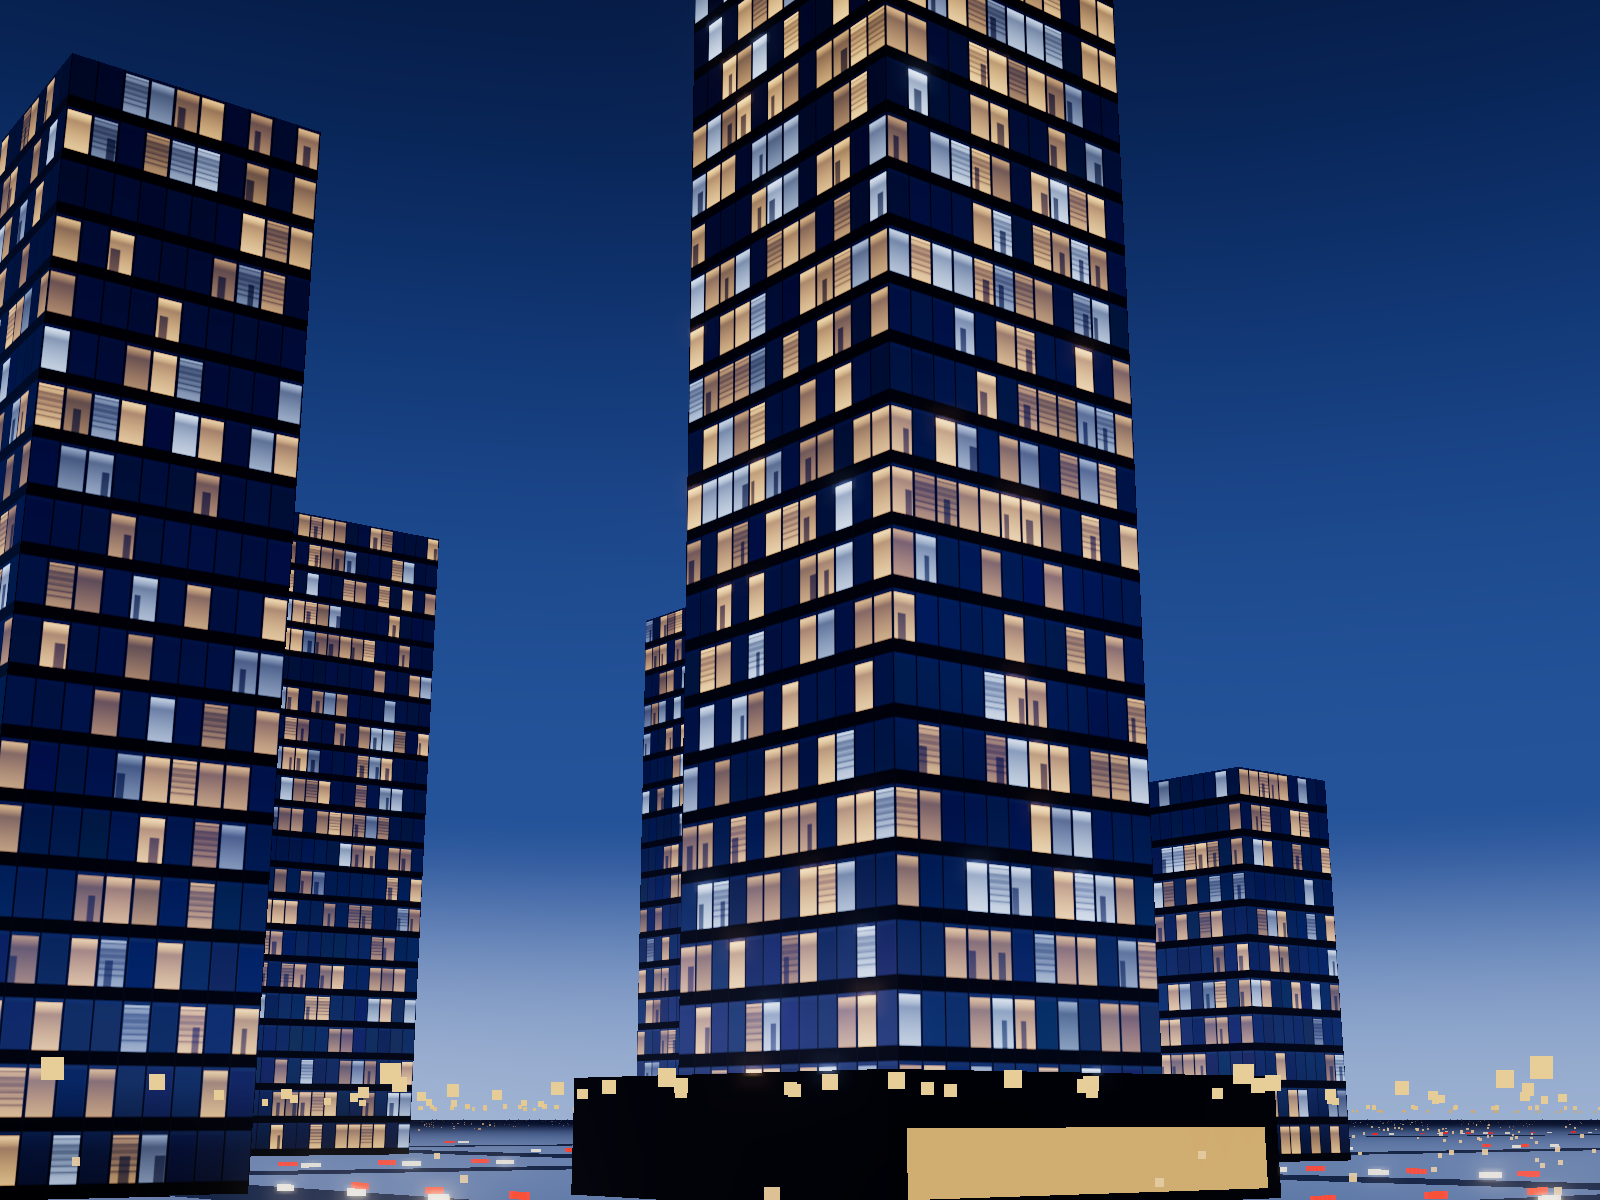
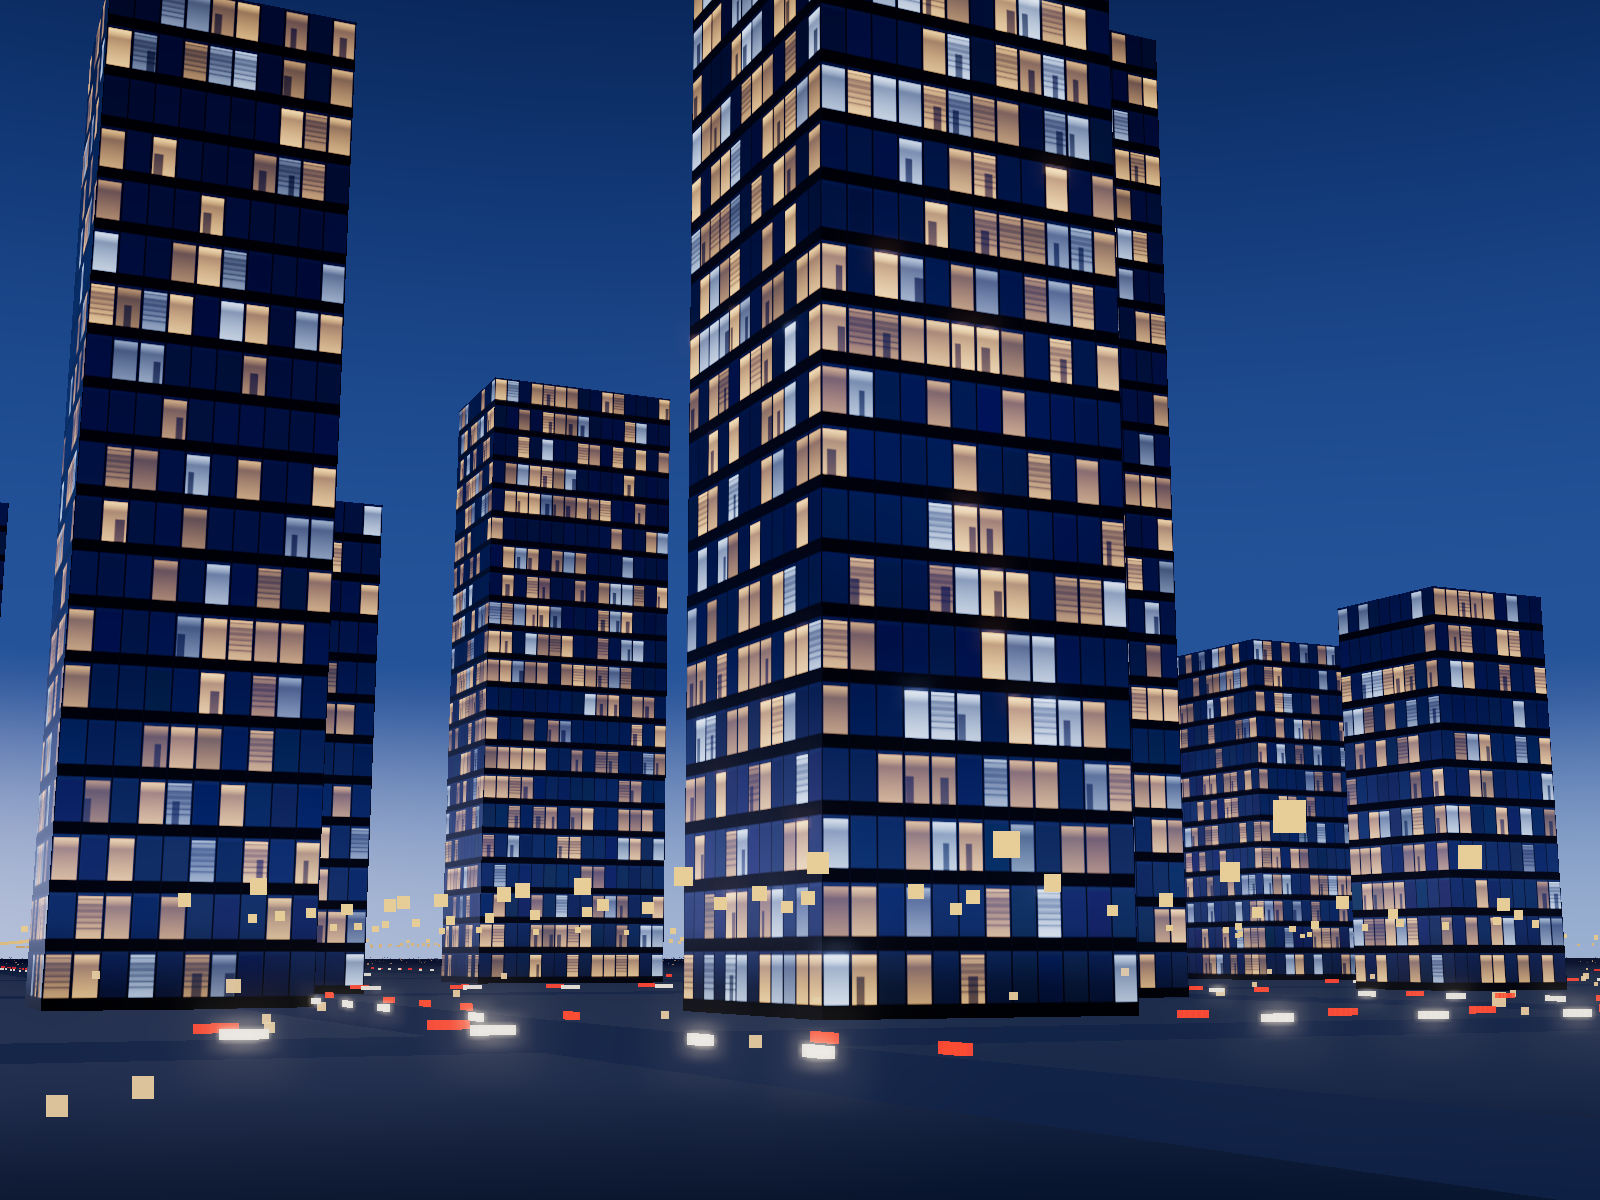
Fix review findings: new plates, arc continuity, gallery alignment, mobile fold
Claude-Session: https://claude.ai/code/session_01WaokyJyyRSGq2xAuYwpAB9

diff --git a/src/styles/global.css b/src/styles/global.css
@@ -73,7 +73,7 @@ strong { color: var(--silver-hi); font-weight: 600; }
 
 /* Hero */
 .hero { position: relative; min-height: max(100svh, 720px); display: grid; align-items: end; padding-block: 140px 40px; background: linear-gradient(180deg, var(--sky) 0%, var(--night) 55%, var(--ground) 100%); isolation: isolate; overflow: hidden; }
-.hero-tower { position: absolute; inset: 0 0 0 auto; width: min(62%, 980px); z-index: -1; mask-image: linear-gradient(90deg, transparent 0%, #000 35%), linear-gradient(0deg, transparent 0%, #000 30%, #000 82%, rgb(0 0 0 / 0.35) 100%); mask-composite: intersect; }
+.hero-tower { position: absolute; inset: 0 0 0 auto; width: min(56%, 900px); mask-image: linear-gradient(90deg, transparent 0%, #000 35%), linear-gradient(0deg, transparent 0%, #000 30%, #000 82%, rgb(0 0 0 / 0.35) 100%); mask-composite: intersect; }
 .hero-tower img { position: absolute; inset: 0; width: 100%; height: 100%; object-fit: cover; object-position: 40% 20%; }
 .hero-tower .lit { opacity: 1; }
 @supports (animation-timeline: scroll()) {
@@ -83,9 +83,10 @@ strong { color: var(--silver-hi); font-weight: 600; }
 }
 @keyframes lights-on { to { opacity: 1; } }
 .arc { position: absolute; z-index: -1; pointer-events: none; }
-.hero .arc { left: -2%; bottom: 16%; width: min(96vw, 1380px); }
+.hero .arc { left: -2%; bottom: 16%; width: min(78vw, 1120px); z-index: -2; }
+.hero-tower { z-index: -1; }
 @media (max-width: 860px) { .hero .arc { left: -10%; bottom: auto; top: 12svh; width: 118vw; } }
-.hero h1 { font-size: clamp(1.75rem, 4.2vw, 3.9rem); text-shadow: 0 2px 24px rgb(4 5 10 / 0.6); }
+.hero h1 { font-size: clamp(1.75rem, 3.8vw, 3.5rem); text-shadow: 0 2px 24px rgb(4 5 10 / 0.6); }
 .hero h1 span { display: block; }
 .hero .lede { margin-top: 26px; max-width: 46ch; }
 .hero-cta { display: flex; flex-wrap: wrap; gap: 14px; align-items: center; margin: 30px 0 44px; }
@@ -96,6 +97,7 @@ strong { color: var(--silver-hi); font-weight: 600; }
   .hero .lede { margin-top: 14px; font-size: 1.02rem; }
   .hero-cta { margin: 18px 0 22px; }
   .hero-cta .btn + .btn { display: none; }
+  .sample { top: calc(50svh - 34px); bottom: auto; right: var(--gut); }
 }
 
 /* Band form (from the brand graphic's bottom bar) */
@@ -147,12 +149,14 @@ figcaption, .tag { font-size: 0.75rem; letter-spacing: 0.12em; text-transform: u
 /* Work strip */
 .reel { display: grid; grid-template-columns: 1.4fr 1fr; grid-template-rows: 1fr 1fr; gap: 18px; margin-top: 56px; }
 .reel .frame { margin: 0; }
-.reel .frame:first-child { grid-row: span 2; aspect-ratio: 5 / 4; }
+.reel { height: clamp(420px, 52vw, 720px); }
+.reel .frame:first-child { grid-row: span 2; }
+.reel .frame img { position: absolute; inset: 0; }
 .reel .frame figcaption, .grid figcaption { position: absolute; inset: auto 0 0; margin: 0; padding: 40px 18px 14px; color: var(--silver-hi); background: linear-gradient(transparent, rgb(4 5 10 / 0.88)); }
-@media (max-width: 860px) { .reel { grid-template-columns: 1fr; } .reel .frame:first-child { grid-row: auto; aspect-ratio: 4 / 5; } }
+@media (max-width: 860px) { .reel { grid-template-columns: 1fr; grid-template-rows: none; height: auto; } .reel .frame { aspect-ratio: 16 / 10; } .reel .frame:first-child { grid-row: auto; aspect-ratio: 4 / 5; } }
 
 /* Process */
-.steps { display: grid; grid-template-columns: repeat(3, 1fr); gap: clamp(24px, 4vw, 56px); margin-top: 72px; position: relative; }
+.steps { padding: 0; margin: 72px 0 0; display: grid; grid-template-columns: repeat(3, 1fr); gap: clamp(24px, 4vw, 56px); margin-top: 72px; position: relative; }
 .steps::before { content: ''; position: absolute; left: 0; right: 0; top: 11px; height: 1px; background: linear-gradient(90deg, var(--blue), var(--blue-hi) 50%, transparent); }
 .steps li { list-style: none; position: relative; padding-top: 48px; }
 .steps li::before { content: ''; position: absolute; top: 4px; left: 0; width: 15px; height: 15px; border-radius: 50%; background: var(--ground); border: 2px solid var(--blue-hi); box-shadow: 0 0 0 6px var(--ground); }
@@ -180,7 +184,7 @@ figcaption, .tag { font-size: 0.75rem; letter-spacing: 0.12em; text-transform: u
 .faq details p { color: var(--muted); padding-bottom: 20px; }
 
 /* Close / contact */
-.close { background: radial-gradient(120% 90% at 85% 0%, rgb(31 123 255 / 0.22), transparent 60%), var(--night); border-top: 1px solid var(--line); overflow: hidden; }
+.close { isolation: isolate; background: radial-gradient(120% 90% at 85% 0%, rgb(31 123 255 / 0.22), transparent 60%), var(--night); border-top: 1px solid var(--line); overflow: hidden; }
 .close .arc { right: -4%; top: 6%; width: min(70vw, 900px); opacity: 0.55; }
 .contact-grid { display: grid; grid-template-columns: 1fr 1.1fr; gap: clamp(40px, 6vw, 96px); align-items: start; }
 .reach { display: grid; gap: 14px; margin-top: 32px; justify-items: start; }
@@ -205,7 +209,8 @@ figcaption, .tag { font-size: 0.75rem; letter-spacing: 0.12em; text-transform: u
 .phero .lede { max-width: 48ch; }
 @media (max-width: 860px) { .phero .arc { width: 70vw; bottom: auto; top: 60px; opacity: 0.45; } }
 .phero .lede { margin-top: 22px; }
-.crumb { font-size: 0.85rem; color: var(--muted); margin-bottom: 26px; display: block; }
+.crumb { font-size: 0.85rem; color: var(--muted); margin-bottom: 26px; display: inline-flex; align-items: center; gap: 8px; }
+.crumb .back { width: 16px; transform: scaleX(-1); }
 .points { list-style: none; padding: 0; margin: 0; display: grid; gap: 0; }
 .points li { padding: 18px 0 18px 34px; border-top: 1px solid var(--line); position: relative; }
 .points li::before { content: ''; position: absolute; left: 0; top: 27px; width: 16px; height: 1px; background: var(--blue-hi); }
@@ -237,3 +242,10 @@ figcaption, .tag { font-size: 0.75rem; letter-spacing: 0.12em; text-transform: u
 }
 @keyframes rise { from { opacity: 0.2; transform: translateY(28px); } }
 @media (prefers-reduced-motion: reduce) { html { scroll-behavior: auto; } *, *::before, *::after { transition-duration: 0.01ms !important; } }
+
+.gal { isolation: isolate; overflow: hidden; }
+.gal .arc { left: -30%; top: 2%; width: min(70vw, 900px); opacity: 0.5; }
+@supports (animation-timeline: scroll()) {
+  @media (max-width: 860px) { body:has(.hero) .wa { animation: wa-in linear both; animation-timeline: scroll(root); animation-range: 60svh 90svh; } }
+}
+@keyframes wa-in { from { opacity: 0; visibility: hidden; transform: scale(0.6); } }
